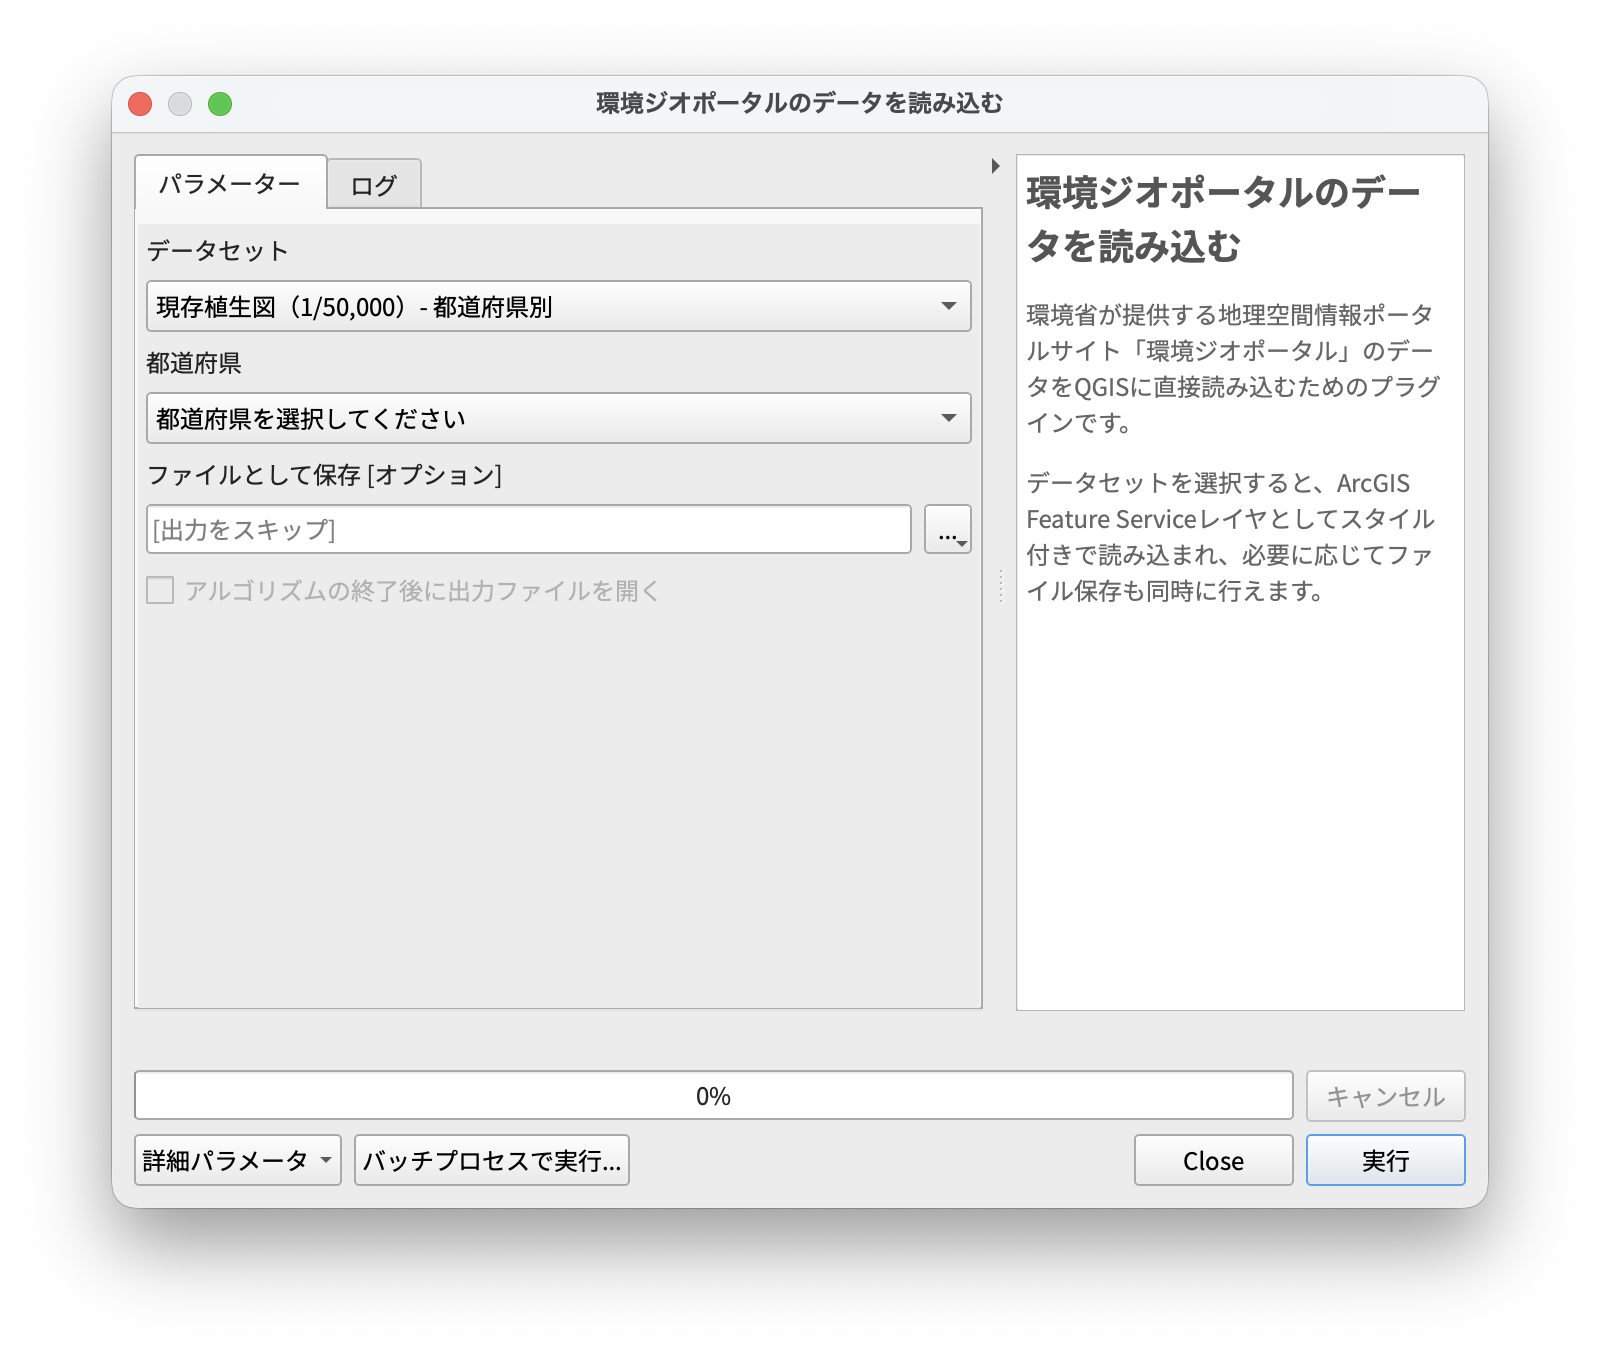
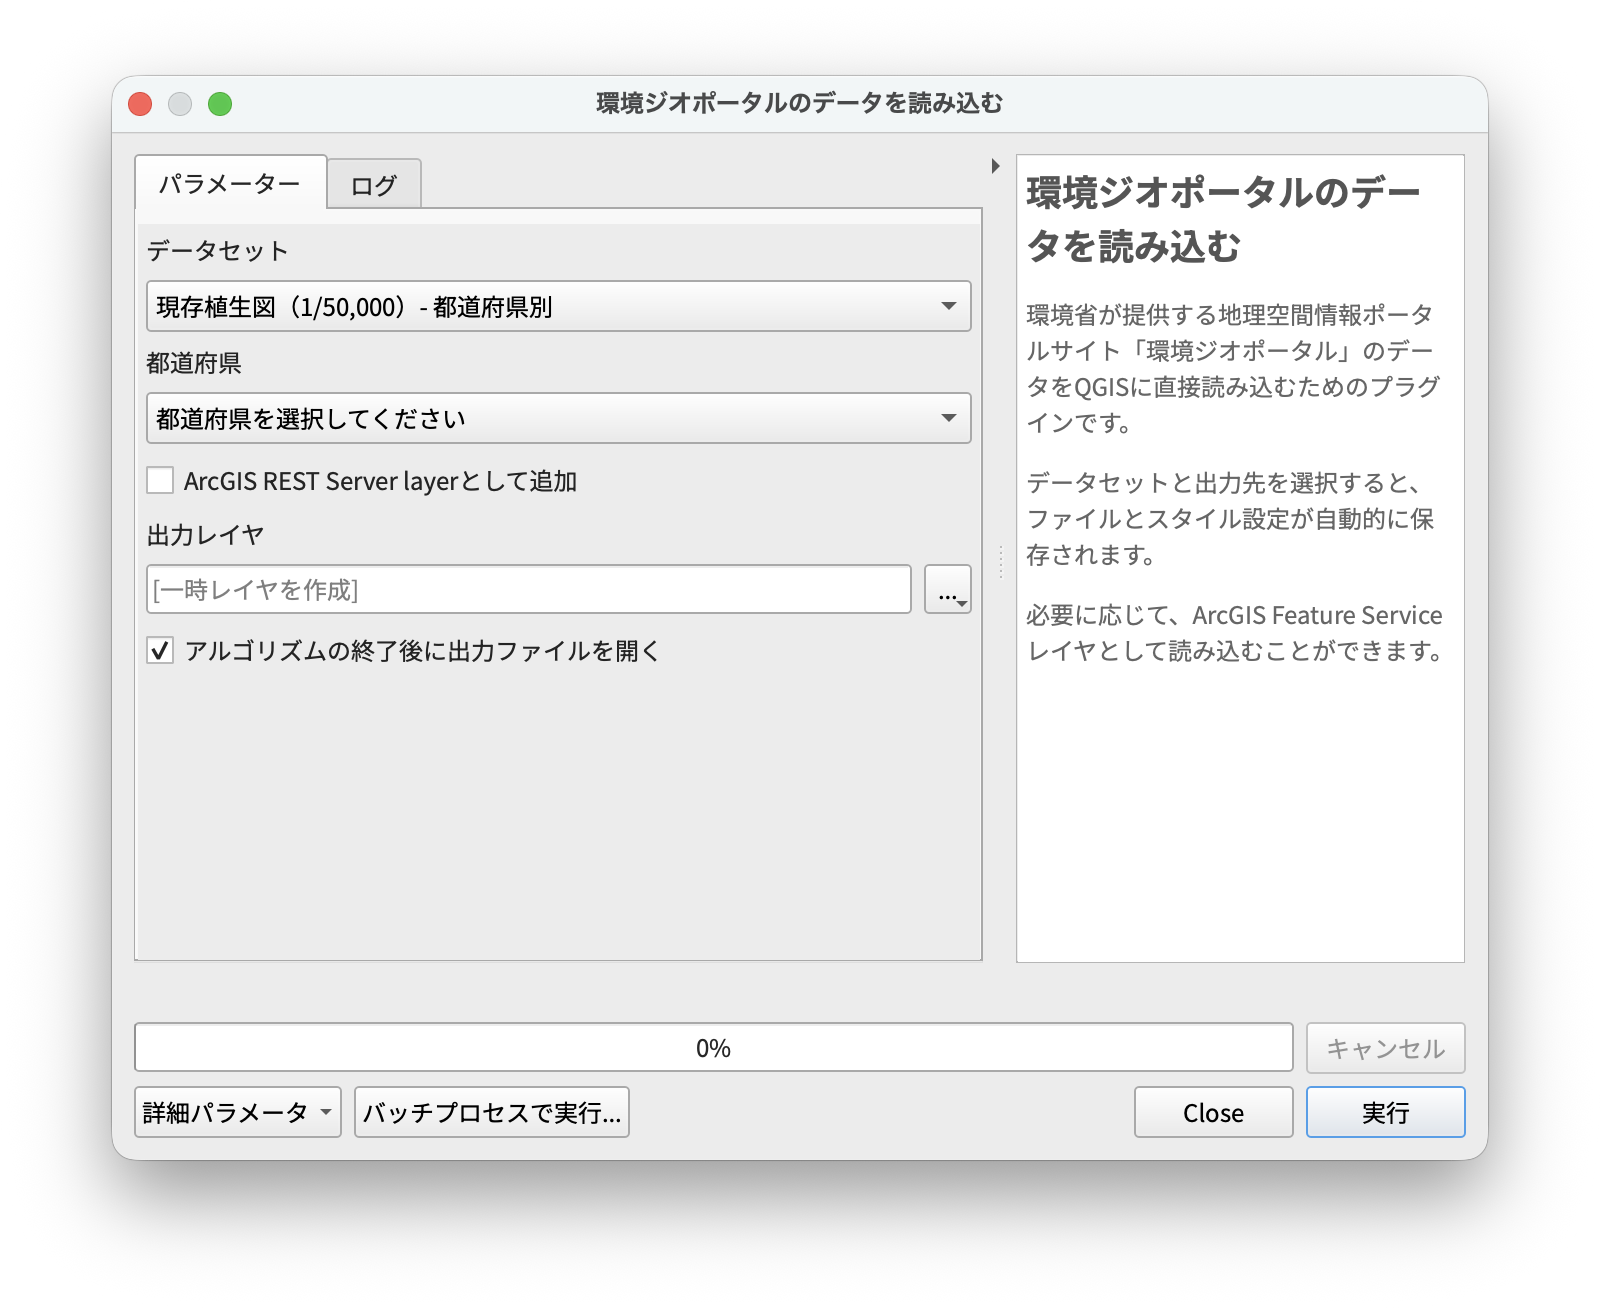
fix: usage

diff --git a/README.md b/README.md
@@ -14,7 +14,8 @@
 ## 使用方法
 
 - 環境省が提供する地理空間情報ポータルサイト「環境ジオポータル」のデータを QGIS に直接読み込むためのプラグインです。
-- データセットを選択すると、ArcGIS Feature Service レイヤとしてスタイル付きで読み込まれ、必要に応じてファイル保存も同時に行えます。
+- データセットと出力先を選択すると、ファイルとスタイル設定が自動的に保存されます。
+- 必要に応じて、ArcGIS Feature Service レイヤとして読み込むことができます。
 - 「現存植生図 2024」は非常に大きなデータセットです。利用の際は、処理負荷や動作環境にご注意ください。
 
 <img src='./imgs/usage.png' alt="ZIPからインストール" width="70%">
